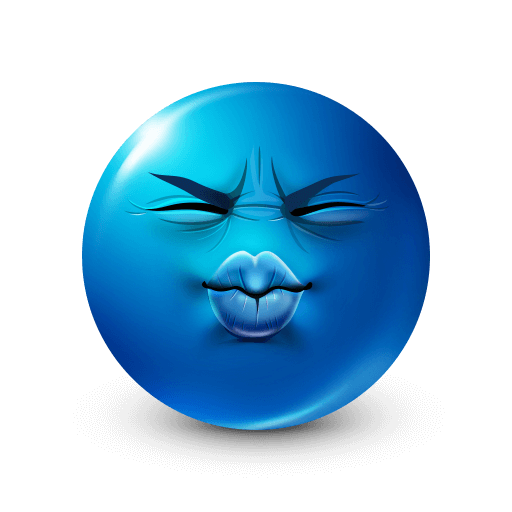
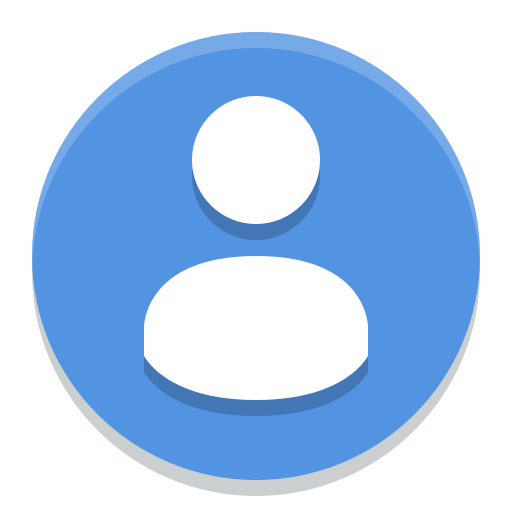
Project Near Compeletion

diff --git a/src/main/webapp/static/css/main.css b/src/main/webapp/static/css/main.css
@@ -722,6 +722,7 @@ img {
     background-color: var(--primary);
     color: #fff;
     border-radius: 9999px;
+    z-index: 500;
 }
 
 .product-content {

diff --git a/src/main/java/com/aptcoursework/dao/LaptopDaoImpl.java b/src/main/java/com/aptcoursework/dao/LaptopDaoImpl.java
@@ -481,6 +481,50 @@ public class LaptopDaoImpl implements LaptopDao {
         return null;
     }
 
+    @Override
+    public int lowStockNoStockCount() {
+        Connection conn = null;
+        String sql = "select count(*) from laptop where availabilityStatus LIKE 'OUT OF STOCK' OR availabilityStatus LIKE 'LOW STOCK'";
+        try {
+            conn = DatabaseConnection.getConnection();
+            PreparedStatement pstmt=conn.prepareStatement(sql);
+            ResultSet rs = pstmt.executeQuery();
+            if (rs.next()) {
+                return rs.getInt(1);
+            }
+        }
+        catch (SQLException e){
+            System.out.println("Error in getting STOCK COUNT" + e.getMessage());
+            return 0;
+        }
+        finally {
+            DatabaseConnection.closeConnection(conn);
+        }
+        return 0;
+    }
+    @Override
+    public double getTotalValuation() {
+        Connection conn = null;
+        String sql = "select sum(stockQuantity * price) from laptop";
+        try {
+            conn = DatabaseConnection.getConnection();
+            PreparedStatement pstmt=conn.prepareStatement(sql);
+            ResultSet rs = pstmt.executeQuery();
+            if (rs.next()) {
+                return rs.getDouble(1);
+            }
+        }
+        catch (SQLException e){
+            System.out.println("Error in getting total valuation" + e.getMessage());
+            return 0;
+        }
+        finally {
+            DatabaseConnection.closeConnection(conn);
+        }
+        return 0;
+    }
+
+
     /**
      * @param value the input string to be converted into a LIKE pattern
      * @return a formatted string suitable for SQL LIKE queries

diff --git a/src/main/java/com/aptcoursework/controller/DashboardServlet.java b/src/main/java/com/aptcoursework/controller/DashboardServlet.java
@@ -75,6 +75,8 @@ public class DashboardServlet extends HttpServlet {
 
         HashMap<String, Integer> categoryCount = laptopDaoImpl.getCountByCategory();
         int totalLaptops = laptopDaoImpl.totalLaptops();
+        request.setAttribute("totalLaptops", totalLaptops);
+
         HashMap<String, Integer> categoryCountPercentage = new HashMap<>();
         for (Map.Entry<String, Integer> entry : categoryCount.entrySet()) {
             categoryCountPercentage.put(entry.getKey(), (int) (entry.getValue() * 100.0 / totalLaptops));
@@ -95,6 +97,9 @@ public class DashboardServlet extends HttpServlet {
         request.setAttribute("thisMonthRevenue", thisMonthRevenue);
         request.setAttribute("lastMonthRevenue", lastMonthRevenue);
         request.setAttribute("revenueGrowth", revenueGrowth);
+
+        request.setAttribute("stockCount", laptopDaoImpl.lowStockNoStockCount());
+        request.setAttribute("totalValuation", String.format("%,.2f",laptopDaoImpl.getTotalValuation()) );
 
 //        System.out.println(categoryCountPercentage);
 

diff --git a/src/main/java/com/aptcoursework/dao/LaptopDao.java b/src/main/java/com/aptcoursework/dao/LaptopDao.java
@@ -31,4 +31,6 @@ public interface LaptopDao {
     ArrayList<Laptop> getLaptopsFilterSearch(String searchWord,String brand, String category, String priceCondition,int start,int limit);
     int countLaptopsFilterSearch(String searchWord,String brand, String category, String priceCondition);
     HashMap<String,Integer> getCountByCategory();
+    int lowStockNoStockCount();
+    double getTotalValuation();
 }